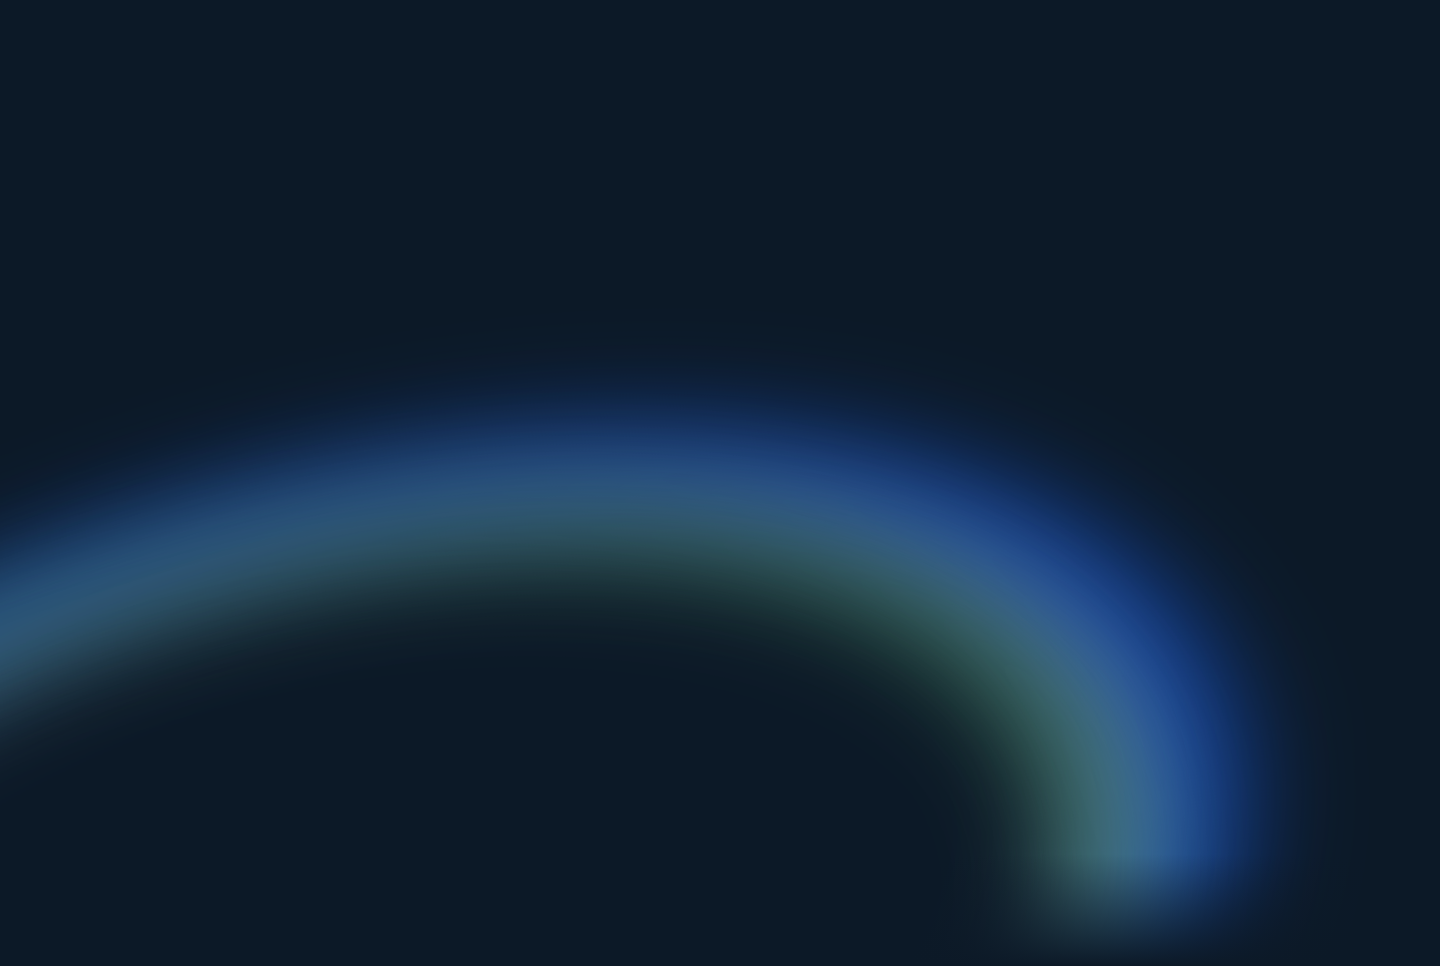
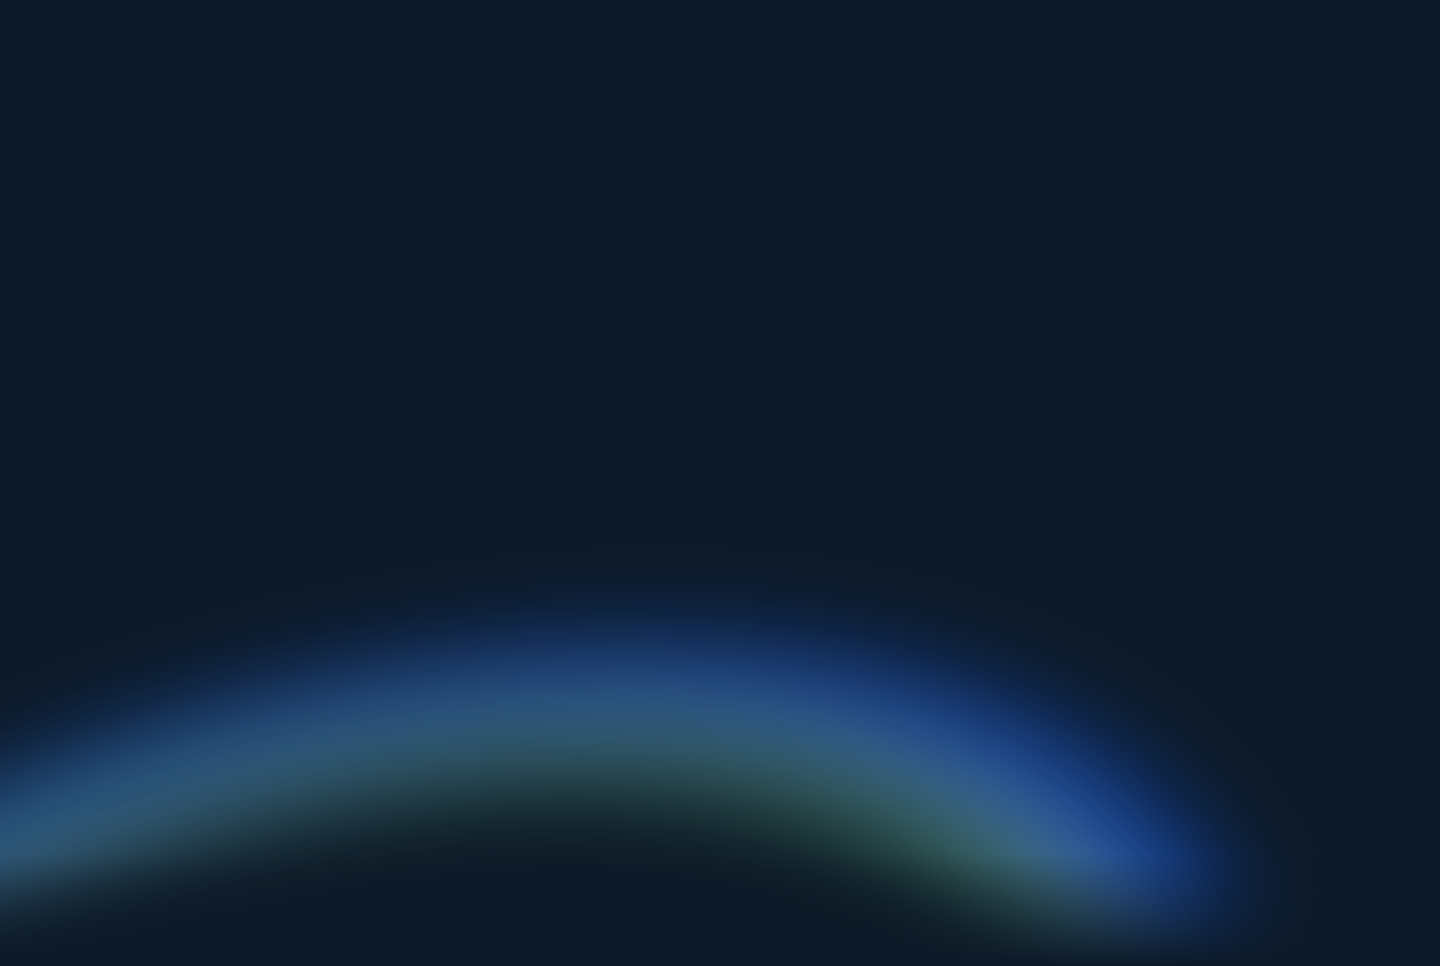
Rebuild footer in table cells and lower header glow
Footer lines move from paragraphs with line breaks and spans into table
cells with HTML entities, so editors that drop that markup keep the
whole footer. The header light sweep sits lower in the banner.

Claude-Session: https://claude.ai/code/session_01MrrDo2iV2opqVubPzurkxo

diff --git a/faclon-cnc-newsletter/Faclon-CNC-Newsletter-FINAL.html b/faclon-cnc-newsletter/Faclon-CNC-Newsletter-FINAL.html
@@ -37,7 +37,8 @@ a{text-decoration:none;}
 .m-foot{padding:32px 16px 24px 16px!important;}
 .m-left{text-align:left!important;}
 .m-foot-r{padding-top:16px!important;}
-.m-foot-r p{display:inline-block!important;margin:0 16px 0 0!important;padding-top:0!important;}
+.m-foot-r table{float:none!important;}
+.m-inline{display:inline-block!important;text-align:left!important;padding:0 16px 0 0!important;}
 .m-foot-b{padding-top:4px!important;}
 }
 </style>
@@ -97,19 +98,25 @@ a{text-decoration:none;}
 <table role="presentation" width="100%" cellpadding="0" cellspacing="0" border="0">
 <tr>
 <td class="m-col" valign="top" width="68%" style="width:68%;">
-<p style="margin:0 0 16px 0;font-family:'TASA Orbiter',Arial,Helvetica,sans-serif;font-size:24px;line-height:32px;font-weight:600;letter-spacing:-0.01em;color:#165FF2;">Faclon Labs Pvt. Ltd.</p>
-<p style="margin:0 0 16px 0;font-family:Inter,Arial,Helvetica,sans-serif;font-size:16px;line-height:24px;color:#40566D;">12,13 First Floor, Jafferbhoy Industrial Estate,<br>Makwana Road, Marol Naka, Andheri (East),<br>Mumbai – 400 059</p>
-<p style="margin:0 0 4px 0;font-family:Inter,Arial,Helvetica,sans-serif;font-size:16px;line-height:24px;color:#40566D;"><a href="tel:+918828252135" target="_blank" style="color:#165FF2;text-decoration:underline;">+91 8828252135</a><span style="color:#40566D;padding:0 8px;">|</span><a href="mailto:reachus@faclon.com" target="_blank" style="color:#40566D;text-decoration:underline;">reachus@faclon.com</a></p>
-<p style="margin:0;font-family:Inter,Arial,Helvetica,sans-serif;font-size:16px;line-height:24px;color:#40566D;"><a href="tel:+918421727129" target="_blank" style="color:#165FF2;text-decoration:underline;">+91 8421727129</a><span style="color:#40566D;padding:0 8px;">|</span><a href="mailto:s.somani@faclon.com" target="_blank" style="color:#40566D;text-decoration:underline;">s.somani@faclon.com</a></p>
+<table role="presentation" width="100%" cellpadding="0" cellspacing="0" border="0">
+<tr><td style="padding:0 0 16px 0;font-family:'TASA Orbiter',Arial,Helvetica,sans-serif;font-size:24px;line-height:32px;font-weight:600;letter-spacing:-0.01em;color:#165FF2;">Faclon Labs Pvt. Ltd.</td></tr>
+<tr><td style="font-family:Inter,Arial,Helvetica,sans-serif;font-size:16px;line-height:24px;color:#40566D;">12,13 First Floor, Jafferbhoy Industrial Estate,</td></tr>
+<tr><td style="font-family:Inter,Arial,Helvetica,sans-serif;font-size:16px;line-height:24px;color:#40566D;">Makwana Road, Marol Naka, Andheri (East),</td></tr>
+<tr><td style="padding:0 0 16px 0;font-family:Inter,Arial,Helvetica,sans-serif;font-size:16px;line-height:24px;color:#40566D;">Mumbai &ndash; 400 059</td></tr>
+<tr><td style="padding:0 0 4px 0;font-family:Inter,Arial,Helvetica,sans-serif;font-size:16px;line-height:24px;color:#40566D;"><a href="tel:+918828252135" target="_blank" style="color:#165FF2;text-decoration:underline;">+91 8828252135</a> &nbsp;|&nbsp; <a href="mailto:reachus@faclon.com" target="_blank" style="color:#40566D;text-decoration:underline;">reachus@faclon.com</a></td></tr>
+<tr><td style="font-family:Inter,Arial,Helvetica,sans-serif;font-size:16px;line-height:24px;color:#40566D;"><a href="tel:+918421727129" target="_blank" style="color:#165FF2;text-decoration:underline;">+91 8421727129</a> &nbsp;|&nbsp; <a href="mailto:s.somani@faclon.com" target="_blank" style="color:#40566D;text-decoration:underline;">s.somani@faclon.com</a></td></tr>
+</table>
 </td>
 <td class="m-col m-left m-foot-r" valign="top" align="right" width="32%" style="width:32%;text-align:right;">
-<p style="margin:0 0 12px 0;padding-top:4px;font-family:Inter,Arial,Helvetica,sans-serif;font-size:16px;line-height:24px;"><a href="https://www.faclon.com" target="_blank" style="color:#40566D;text-decoration:underline;">www.faclon.com</a></p>
-<p style="margin:0;font-family:Inter,Arial,Helvetica,sans-serif;font-size:16px;line-height:24px;"><a href="https://www.linkedin.com/company/faclon-labs" target="_blank" style="color:#40566D;text-decoration:underline;">LinkedIn</a></p>
+<table role="presentation" class="m-left" align="right" cellpadding="0" cellspacing="0" border="0">
+<tr><td class="m-inline" align="right" style="padding:4px 0 12px 0;font-family:Inter,Arial,Helvetica,sans-serif;font-size:16px;line-height:24px;"><a href="https://www.faclon.com" target="_blank" style="color:#40566D;text-decoration:underline;">www.faclon.com</a></td></tr>
+<tr><td class="m-inline" align="right" style="font-family:Inter,Arial,Helvetica,sans-serif;font-size:16px;line-height:24px;"><a href="https://www.linkedin.com/company/faclon-labs" target="_blank" style="color:#40566D;text-decoration:underline;">LinkedIn</a></td></tr>
+</table>
 </td>
 </tr>
 <tr><td colspan="2" style="padding:28px 0 0 0;"><table role="presentation" width="100%" cellpadding="0" cellspacing="0" border="0"><tr><td style="border-top:1px solid #CBD5E2;font-size:0;line-height:0;height:1px;">&nbsp;</td></tr></table></td></tr>
 <tr>
-<td class="m-col" valign="top" style="padding-top:16px;font-family:Inter,Arial,Helvetica,sans-serif;font-size:14px;line-height:22px;color:#768EA7;">©2026 Faclon Labs Pvt. Ltd. All rights reserved.</td>
+<td class="m-col" valign="top" style="padding-top:16px;font-family:Inter,Arial,Helvetica,sans-serif;font-size:14px;line-height:22px;color:#768EA7;">&copy;2026 Faclon Labs Pvt. Ltd. All rights reserved.</td>
 <td class="m-col m-left m-foot-b" valign="top" align="right" style="padding-top:16px;text-align:right;font-family:Inter,Arial,Helvetica,sans-serif;font-size:14px;line-height:22px;"><a href="{{ unsubscribe }}" target="_blank" style="color:#768EA7;text-decoration:underline;">Unsubscribe</a></td>
 </tr>
 </table></td></tr>

diff --git a/faclon-cnc-newsletter/faclon-cnc-intelligence-newsletter.html b/faclon-cnc-newsletter/faclon-cnc-intelligence-newsletter.html
@@ -155,7 +155,7 @@
   .header .glow{
     position:absolute;
     width:1040px; height:560px;
-    left:-360px; top:220px;
+    left:-360px; top:330px;
     border-radius:50%;
     background:
       radial-gradient(closest-side, rgba(22,95,242,0) 72%, rgba(138,177,251,0.55) 80%, rgba(22,95,242,0.70) 86%, rgba(22,95,242,0) 96%);
@@ -164,7 +164,7 @@
     pointer-events:none;
   }
   .header .glow.accent{
-    left:-400px; top:252px;
+    left:-400px; top:362px;
     background:
       radial-gradient(closest-side, rgba(104,221,104,0) 78%, rgba(104,221,104,0.35) 86%, rgba(104,221,104,0) 94%);
   }
